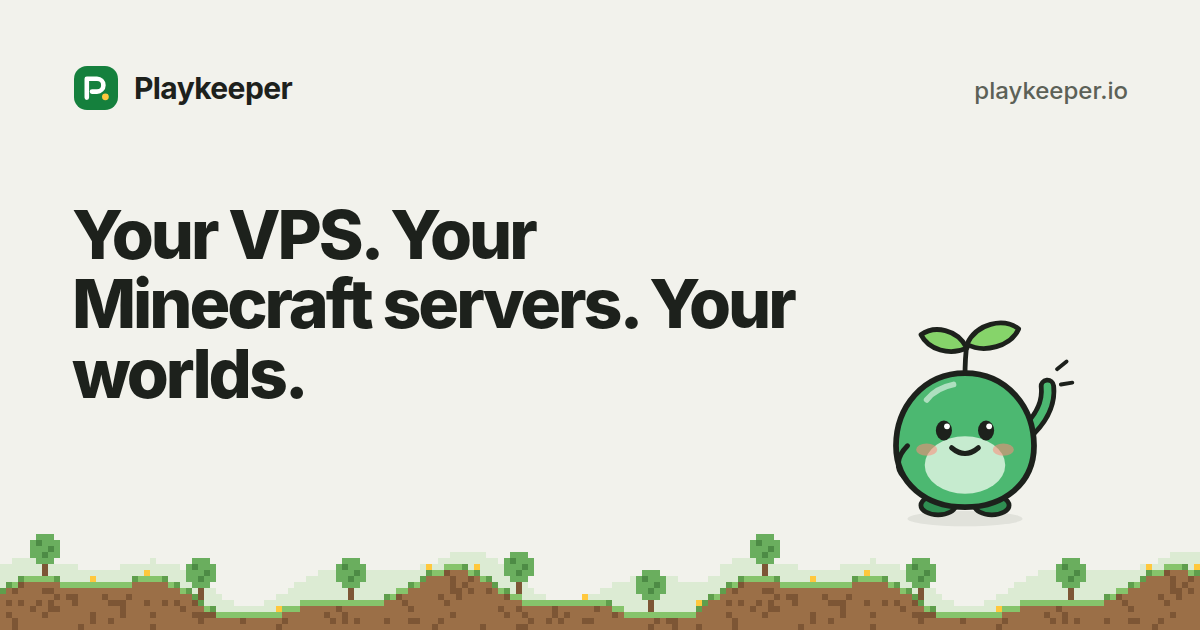
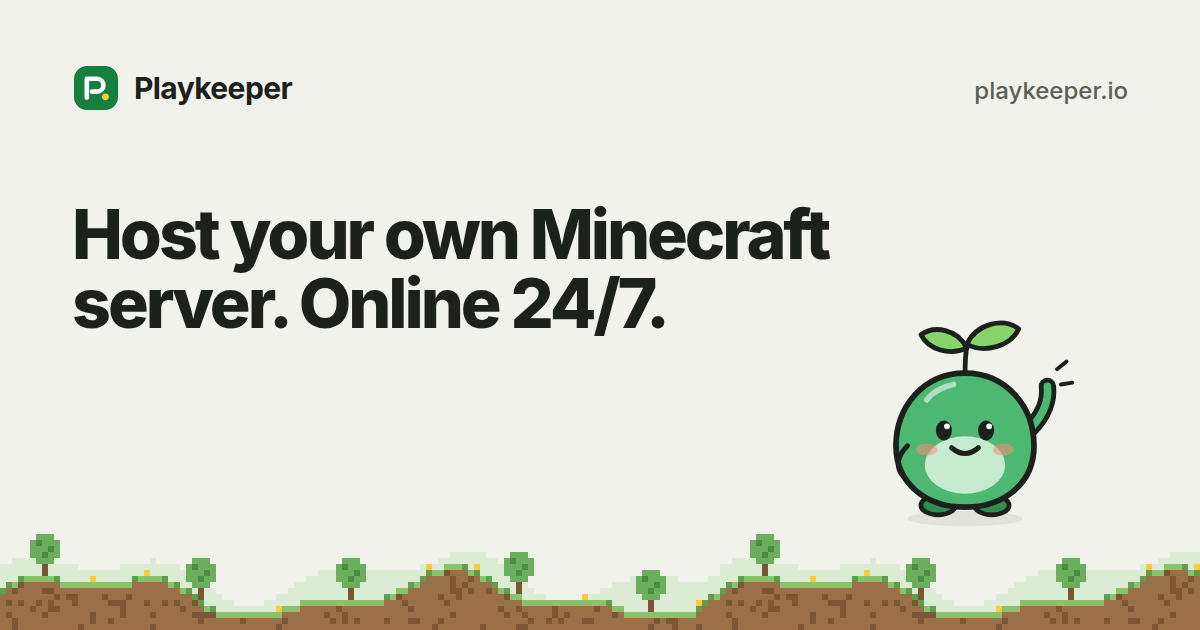
site: the landing page is about hosting your own server, with a card for people paying a host by the GB
The title, headline, subhead and footer say host your own Minecraft server,
online 24/7, instead of leading with the VPS. Why host your own server? gets a
fourth card for people paying a game host: 8 GB on a VPS costs about what a
premium host charges for 4 GB, from the cost guide's own prices, and a test
fails if those stop agreeing. The free-host card adds that you pick the
memory. The four cards share rows, so their links line up at every width.

Changed region(s): [[0.0617, 0.3317, 0.7092, 0.6333]]

diff --git a/site/pages/index.html b/site/pages/index.html
@@ -1,7 +1,7 @@
 {{/*
 path: /
-title: Playkeeper: a free Minecraft server panel for your own VPS
-description: Turn a Linux VPS into a Minecraft: Java Edition server host with one command: mods, modpacks, backups and a free address. Free and open source.
+title: Host your own Minecraft server on a VPS. Free and open source.
+description: Playkeeper sets up a Minecraft: Java Edition server on your VPS with one command. It stays on 24/7 with the memory you pick, and modpacks install in one click.
 label: Playkeeper
 layout: landing
 og: landing
@@ -20,8 +20,8 @@ scripts: js/landing.js, js/sizing-data.js, js/sizing.js
   <div class="container hero-row">
     <div class="hero-text">
       {{with page "/blog/playkeeper-0-4-0"}}<a class="release-pill hero-rise" href="{{.Path}}"><span class="dot" aria-hidden="true"></span>Playkeeper {{$.Site.Version}} is out <strong>What's new{{template "icon" "arrow-right"}}</strong></a>{{end}}
-      <h1 id="hero-title" class="h1-hero"><span class="line hero-rise">Your VPS.</span> <span class="line hero-rise">Your Minecraft servers.</span> <span class="line line-green hero-rise">Your worlds.</span></h1>
-      <p class="hero-sub hero-after">Playkeeper turns a Linux VPS into a Minecraft: Java Edition server host. One command installs it. Free and open source.</p>
+      <h1 id="hero-title" class="h1-hero"><span class="line hero-rise">Host your own</span> <span class="line hero-rise">Minecraft server.</span> <span class="line line-green hero-rise">Online 24/7.</span></h1>
+      <p class="hero-sub hero-after">Playkeeper turns a VPS you rent into a Minecraft: Java Edition server for you and your friends. One command sets it up. Free and open source.</p>
       <div class="hero-after">{{template "install" (dict "ID" true)}}</div>
       <div class="hero-actions hero-after">
         <a class="btn btn-outline btn-lg" href="/demo/">Try the live demo{{template "icon" "arrow-right"}}</a>
@@ -85,14 +85,24 @@ scripts: js/landing.js, js/sizing-data.js, js/sizing.js
 
 <section class="band band-white" aria-labelledby="why-title">
   <div class="container">
-    <h2 id="why-title" class="section-title reveal">Why run your own server?</h2>
-    <div class="grid-3 why-row">
-      {{$aternos := first "/alternatives/aternos"}}{{$realms := first "/alternatives/realms" "/features/mods-and-modpacks"}}{{$ptero := first "/alternatives/pterodactyl"}}
+    <h2 id="why-title" class="section-title reveal">Why host your own server?</h2>
+    <div class="grid-4 why-row">
+      {{$cost := first "/guides/minecraft-server-cost" "/sizing"}}{{$aternos := first "/alternatives/aternos"}}{{$realms := first "/alternatives/realms" "/features/mods-and-modpacks"}}{{$ptero := first "/alternatives/pterodactyl"}}{{$vps := vpsFrom}}
+      {{/* A premium host's 4 GB is Apex Hosting's plan in the cost guide:
+        TestPaidHostCardFollowsTheCostGuide keeps the claim true to both. */}}
+      <article class="why-card reveal">
+        <div class="why-art"><img src="{{asset "app/pixel-art/world-big-biomes.svg"}}" alt="" width="256" height="160" loading="lazy" decoding="async"></div>
+        <div>
+          <h3>Paying a host by the GB?</h3>
+          <p>{{$vps.MemoryGB}} GB on a VPS costs about what a premium host charges for 4 GB, and it runs several servers.</p>
+          <a class="link-arrow" href="{{$cost.Path}}">{{$cost.Card}}{{template "icon" "arrow-right"}}</a>
+        </div>
+      </article>
       <article class="why-card reveal">
         <div class="why-art"><img src="{{asset "app/pixel-art/empty-no-players.svg"}}" alt="" width="300" height="180" loading="lazy" decoding="async"></div>
         <div>
           <h3>Outgrown a free host?</h3>
-          <p>No queue, no ads, and it doesn't stop when everyone leaves.</p>
+          <p>No queue, no ads, you pick the memory, and it stays on when everyone leaves.</p>
           <a class="link-arrow" href="{{$aternos.Path}}">{{$aternos.Card}}{{template "icon" "arrow-right"}}</a>
         </div>
       </article>
@@ -100,7 +110,7 @@ scripts: js/landing.js, js/sizing-data.js, js/sizing.js
         <div class="why-art"><img src="{{asset "app/pixel-art/play-creative.svg"}}" alt="" width="300" height="180" loading="lazy" decoding="async"></div>
         <div>
           <h3>Coming from Realms?</h3>
-          <p>Mods, plugins and as many players as your VPS can take.</p>
+          <p>Mods, plugins and as many players as your server can take.</p>
           <a class="link-arrow" href="{{$realms.Path}}">{{if eq $realms.Kind "Compare"}}{{$realms.Card}}{{else}}{{$realms.Label}}{{end}}{{template "icon" "arrow-right"}}</a>
         </div>
       </article>

diff --git a/site/static/css/site.css b/site/static/css/site.css
@@ -390,6 +390,19 @@ main:focus { outline: none; }
   .why-card .why-art img { height: 84px; }
   .why-card h3 { font-size: 19px; }
   .why-card p { margin: 6px 0 8px; font-size: 16px; }
+  .why-row { grid-template-columns: minmax(0, 1fr); }
+}
+/* Side by side, each card's scene, heading, text and link share rows with
+   its neighbours', so a longer line never pushes one card's link out of line. */
+@media (min-width: 640px) {
+  .why-row .why-card, .why-row .why-card > div:not(.why-art) { display: grid; grid-template-rows: subgrid; row-gap: 0; }
+  .why-row .why-card { grid-row: span 4; }
+  .why-row .why-card > div:not(.why-art) { grid-row: span 3; }
+  .why-row .why-card .link-arrow { justify-self: start; }
+}
+@media (min-width: 1024px) {
+  .why-row .why-art { height: 168px; }
+  .why-row .why-art img { height: 136px; }
 }
 
 /* Features: a phone in each card. */

diff --git a/site/layouts/base.html b/site/layouts/base.html
@@ -113,7 +113,7 @@
     <div class="footer-top">
       <div class="footer-brand">
         <a class="brand" href="/"><img src="{{asset "app/brand/playkeeper-mark.svg"}}" alt="" width="28" height="28"><span>Playkeeper</span></a>
-        <p>Your VPS. Your Minecraft servers. Your worlds.</p>
+        <p>Host your own Minecraft server. Online 24/7.</p>
       </div>
       <div class="footer-cols">
         {{range footer}}

diff --git a/internal/site/site_test.go b/internal/site/site_test.go
@@ -922,6 +922,37 @@ func TestCostGuideFollowsTheSizingGuideAndThePlans(t *testing.T) {
 	}
 }
 
+// The landing page's card for people paying a game host holds only with the
+// cost guide's prices: the cheapest VPS it shows has at least twice the
+// memory of a premium host's 4 GB plan (Apex Hosting's, in the cost guide),
+// and costs no more than that plan, even after its first term renews.
+func TestPaidHostCardFollowsTheCostGuide(t *testing.T) {
+	built := pages(build(t, Default))
+	landing, cost := built["/"], built["/guides/minecraft-server-cost"]
+	r, err := sizing.Recommend(sizing.Vanilla, 1)
+	if err != nil {
+		t.Fatal(err)
+	}
+	vps := cheapestFit(r.MemoryGB, r.Cores)
+	if want := fmt.Sprintf("%d GB on a VPS costs about what a premium host charges for 4 GB", vps.MemoryGB); !strings.Contains(landing, want) {
+		t.Errorf("the landing page doesn't say %q", want)
+	}
+	if vps.MemoryGB < 8 {
+		t.Errorf("the cheapest VPS, %s's %s, has %d GB, less than twice a premium host's 4 GB", vps.Provider, vps.Name, vps.MemoryGB)
+	}
+	m := regexp.MustCompile(`Apex Hosting's 4 GB plan costs \$(\d+\.\d\d)`).FindStringSubmatch(cost)
+	if m == nil {
+		t.Fatal("the cost guide no longer gives the premium 4 GB price the landing page compares with")
+	}
+	premium, err := strconv.ParseFloat(m[1], 64)
+	if err != nil {
+		t.Fatal(err)
+	}
+	if most := max(vps.USD, vps.Renews); most > premium {
+		t.Errorf("%s's %s costs up to %s a month, more than a premium host's 4 GB at %s", vps.Provider, vps.Name, usd(most), usd(premium))
+	}
+}
+
 // The sizing guide's table works without JavaScript: a row for each number of
 // friends at once, a column for each thing they run, and each size as
 // internal/sizing works it out.
